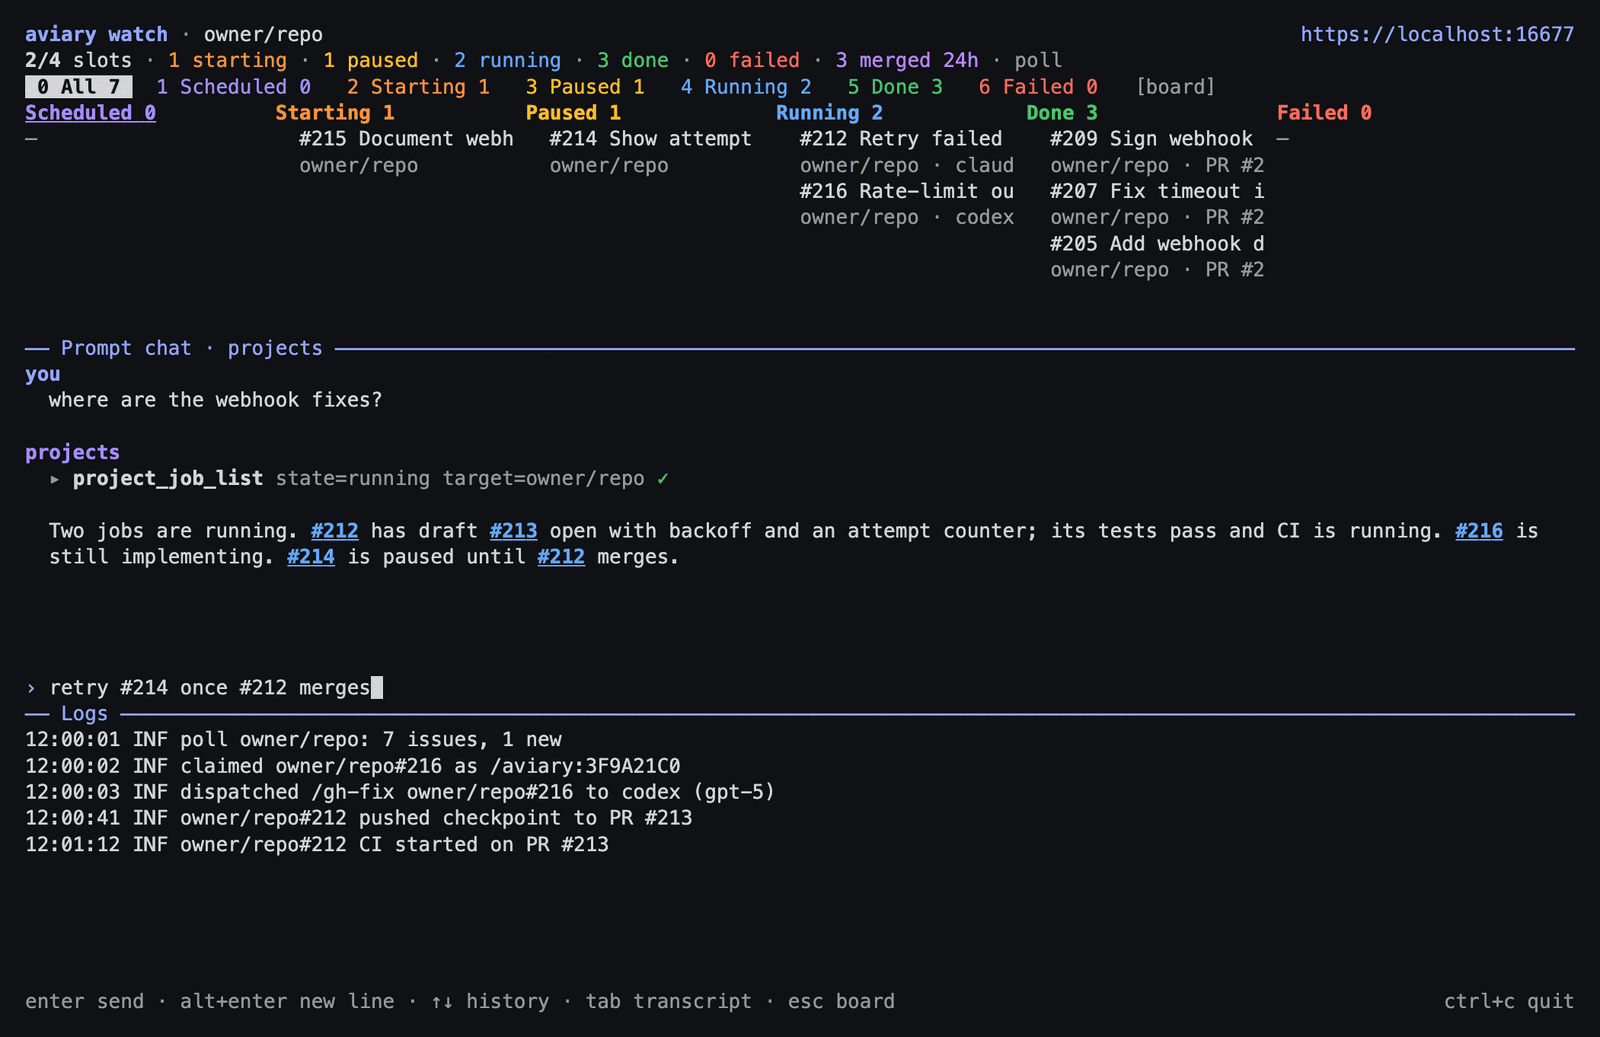
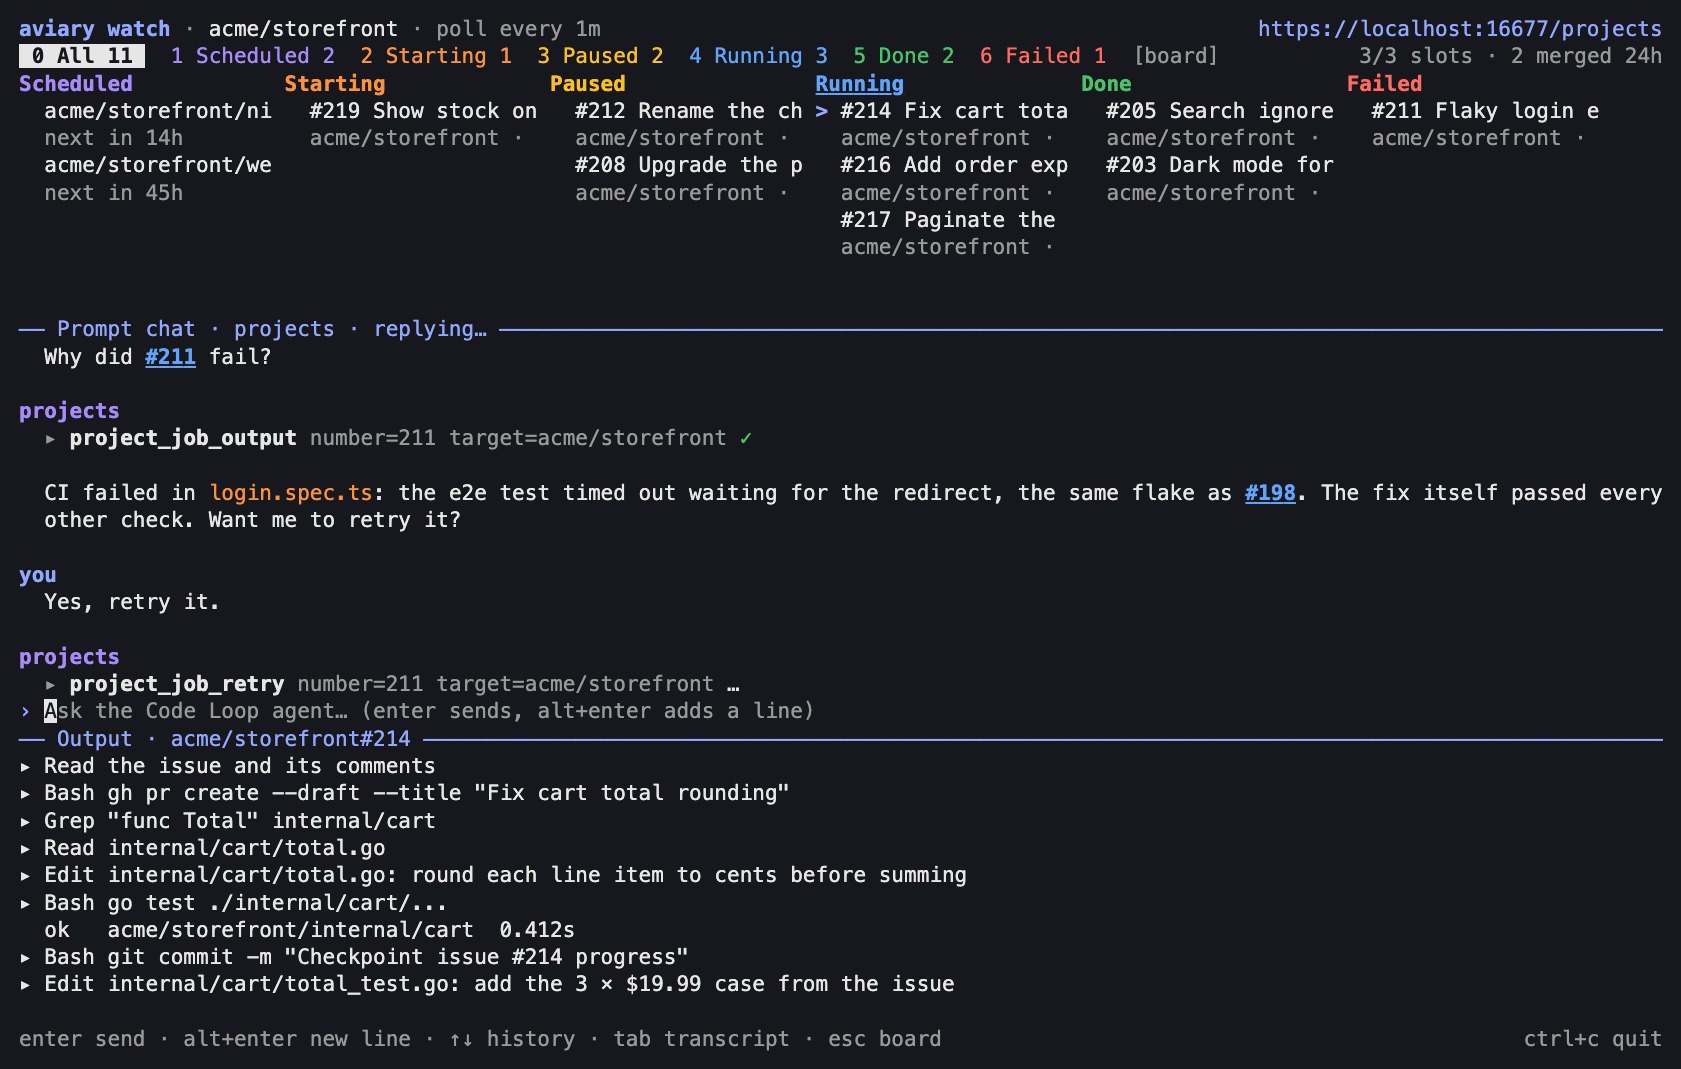
Merge the watch TUI's stats and filter rows into one header row
Closes #1178

diff --git a/docs/site/.vitepress/theme/components/ProjectsPage.vue b/docs/site/.vitepress/theme/components/ProjectsPage.vue
@@ -258,7 +258,7 @@ onBeforeUnmount(() => {
 						<span class="tl"><span /><span /><span /></span>
 						<span>terminal · aviary watch owner/repo</span>
 					</div>
-					<img :src="withBase('/screenshots/watch-tui.png')" alt="The aviary watch terminal board with its prompt chat open: a question, a collapsed tool call, the agent's reply, and the log pane" />
+					<img :src="withBase('/screenshots/watch-tui.png')" alt="The aviary watch terminal board with its one-row filter header and prompt chat open: a question, a collapsed tool call, the agent's reply, and the selected job's output" />
 				</div>
 				<div>
 					<p class="pp-eyebrow">The terminal</p>
